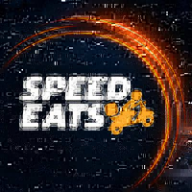
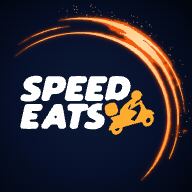
Add files via upload

diff --git a/index.html b/index.html
@@ -55,7 +55,7 @@
 <body>
 
 <section id="home">
-  <img src="icon-512.png" alt="Speed Eats">
+  <img src="logo.svg" alt="Speed Eats">
   <h1>Carte <span>Auto</span></h1>
   <p>Prends la carte en photo ou donne le site du resto : la carte est créée et envoyée sur Speed Eats.</p>
   <button id="install" class="btn primary">📲 Installer l'appli</button>
@@ -65,7 +65,7 @@
 </section>
 
 <section id="app"></section>
-<div id="splash"><img src="icon-512.png" alt=""><div class="bar"><i></i></div><small>Ouverture de Carte Auto…</small></div>
+<div id="splash"><img src="logo.svg" alt=""><div class="bar"><i></i></div><small>Ouverture de Carte Auto…</small></div>
 <button id="open">↗ Plein écran</button>
 
 <script>

diff --git a/sw.js b/sw.js
@@ -1,5 +1,5 @@
-const CACHE = "carte-auto-v1";
-const SHELL = ["./", "index.html", "manifest.webmanifest", "icon-192.png", "icon-512.png", "icon-maskable-512.png", "apple-touch-icon.png"];
+const CACHE = "carte-auto-v2";
+const SHELL = ["./", "index.html", "manifest.webmanifest", "logo.svg", "icon-192.png", "icon-512.png", "icon-maskable-512.png", "apple-touch-icon.png"];
 
 self.addEventListener("install", e => {
   e.waitUntil(caches.open(CACHE).then(c => c.addAll(SHELL)).then(() => self.skipWaiting()));
